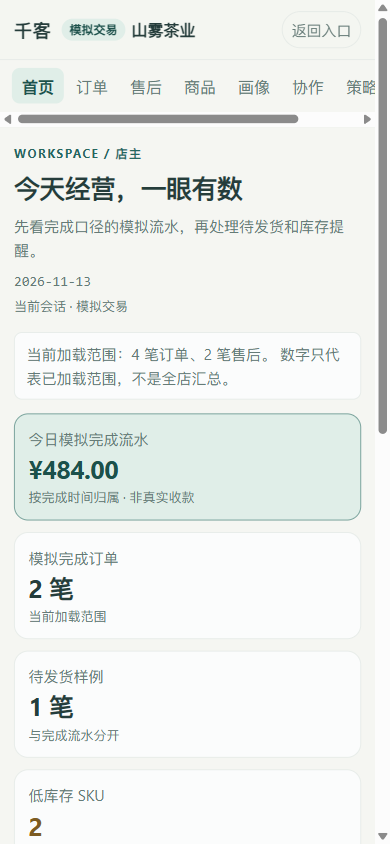
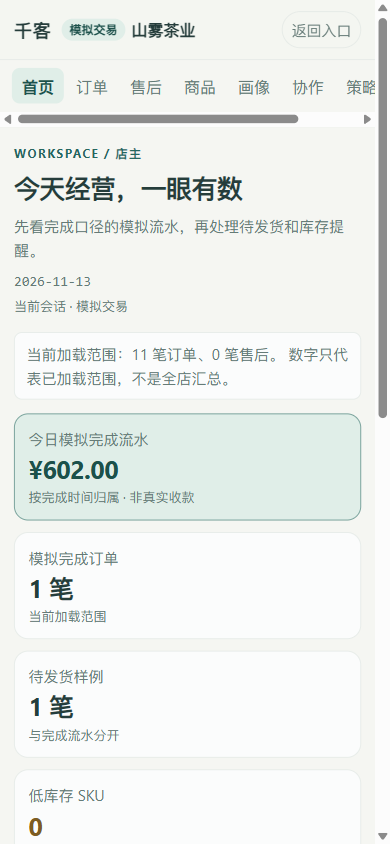
docs(b-end): record real API P0 verification

diff --git a/docs/e2e/b-end-p0-role-home.md b/docs/e2e/b-end-p0-role-home.md
@@ -43,7 +43,32 @@ web/src/b-workbench.css
 
 ## 静态验证
 
-本地 API 因 PostgreSQL/Docker 停止不可用，使用构建产物 + Playwright 路由 mock 验证布局和交互，不是生产接口验收。
+## 真实接口验收
+
+PostgreSQL/Docker 恢复后，使用 B 端账号 `test_b_image` 完成真实接口浏览器验收：
+
+```text
+GET /api/b/workbench/me                 200
+GET /api/b/workbench/orders?limit=100   200
+GET /api/b/workbench/after-sales?limit=100 200
+GET /api/b/workbench/products           200
+GET /api/b/workbench/inventory/alerts?limit=100 200
+GET /api/superagent/work-items?limit=50 200
+console errors / warnings               0
+```
+
+真实数据：
+
+```text
+订单 11 笔
+商品 8 个
+工作首页：今日模拟完成流水 ¥602.00、1 笔完成、1 笔待发货
+订单表格：11 行；详情抽屉显示 order_1579fdd829d7443a
+商品表格：8 行；价格范围、可售、锁定、低库存列正常
+手机 390 视口：document.scrollWidth = clientWidth = 375
+```
+
+之前静态 mock 验证仍然保留，作为无后端时的布局回归。
 
 ```text
 桌面 1440×1000
@@ -68,6 +93,7 @@ web/src/b-workbench.css
 docs/design/b-end-2.0-p0-prod-overview.png
 docs/design/b-end-2.0-p0-prod-orders.png
 docs/design/b-end-2.0-p0-prod-products.png
+docs/design/b-end-2.0-p0-prod-order-drawer.png
 docs/design/b-end-2.0-p0-prod-mobile.png
 ```
 
@@ -78,5 +104,5 @@ docs/design/b-end-2.0-p0-prod-mobile.png
 - 经营报告、客服会话、批量能力仍为待接入/禁用态
 - 订单操作已移入详情抽屉并加入模拟支付/完成确认；真实支付/完成仍待后端契约
 - 批量发货/改库存/导出尚未接入
-- 本地没有 API 运行环境，尚未做真实接口浏览器验收
+- 真实接口已验收；测试订单 order_1579fdd829d7443a 仍在数据中，待清理
 ```
